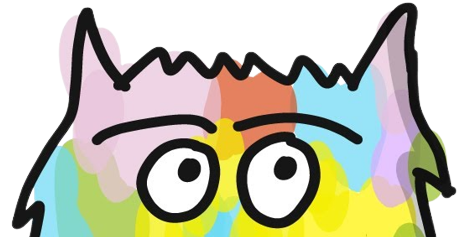
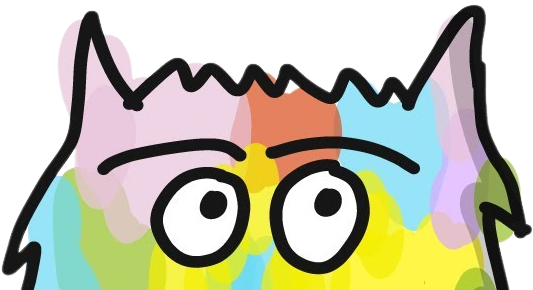
Comento imagen superior de Arcade
No me convence como queda la imagen de arriba asique me quedo solo con la de abajo por el momento

Changed region(s): [[0.0, 0.0, 1.0, 1.0], [0.6061, 0.3544, 0.6364, 0.384]]

diff --git a/src/components/ArcadeView/ArcadeView.tsx b/src/components/ArcadeView/ArcadeView.tsx
@@ -7,15 +7,15 @@ const ArcadeView = ({goToRuleta}: {goToRuleta?: () => void}) => {
   const style = makeFeedbackViewStyles();
   return (
     <View style={style.containerView}>
-      <Image
+      {/* <Image
         source={require('../../../assets/ilustraciones/monster_default_5.png')}
         style={style.image}
-      />
+      /> */}
       <View style={style.tarjetablanca}>
         <Text style={style.heading}>¡Bienvenido al modo Arcade!</Text>
         <Text style={style.subtitle}>Dos etapas llenas de diversión</Text>
         <Text style={style.italic}>Ruleta</Text>
-        <Text style={style.arrow}>{'\u2193'}</Text>
+        <Text style={style.arrow}>↓</Text>
         <Text style={style.italic}>Asociación de emociones</Text>
         <Button
           onPress={() => goToRuleta && goToRuleta()}
